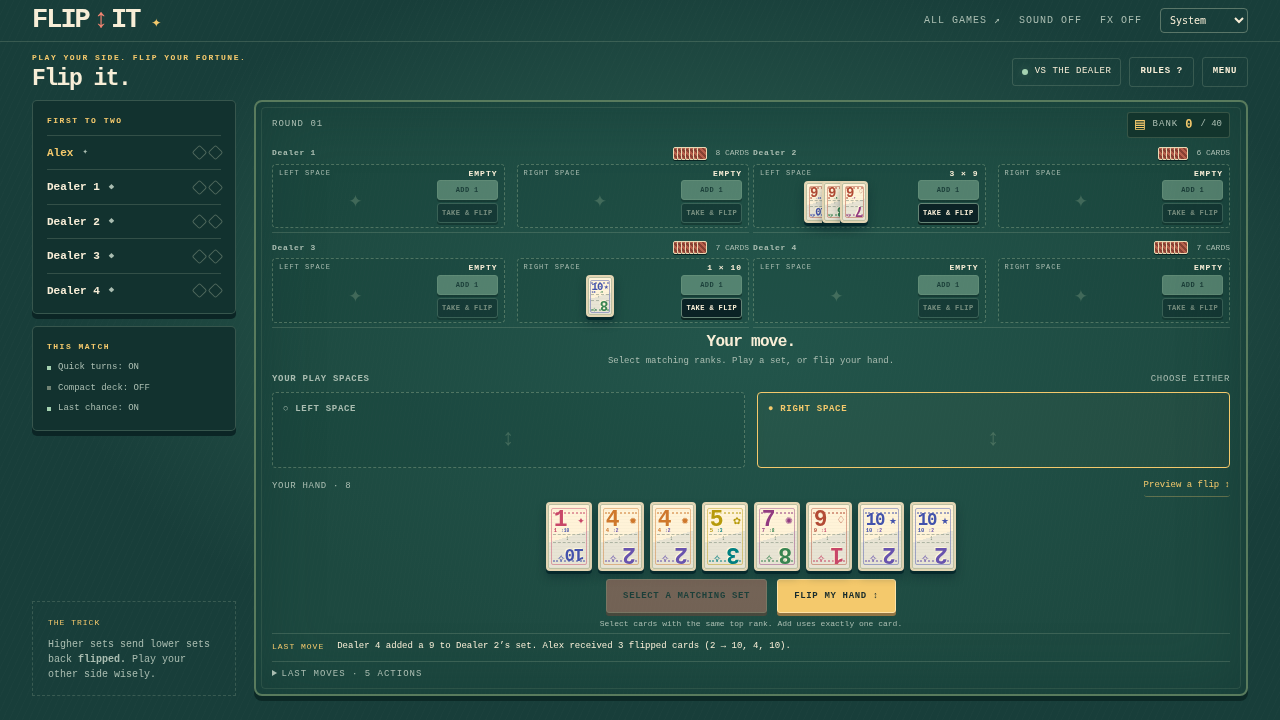
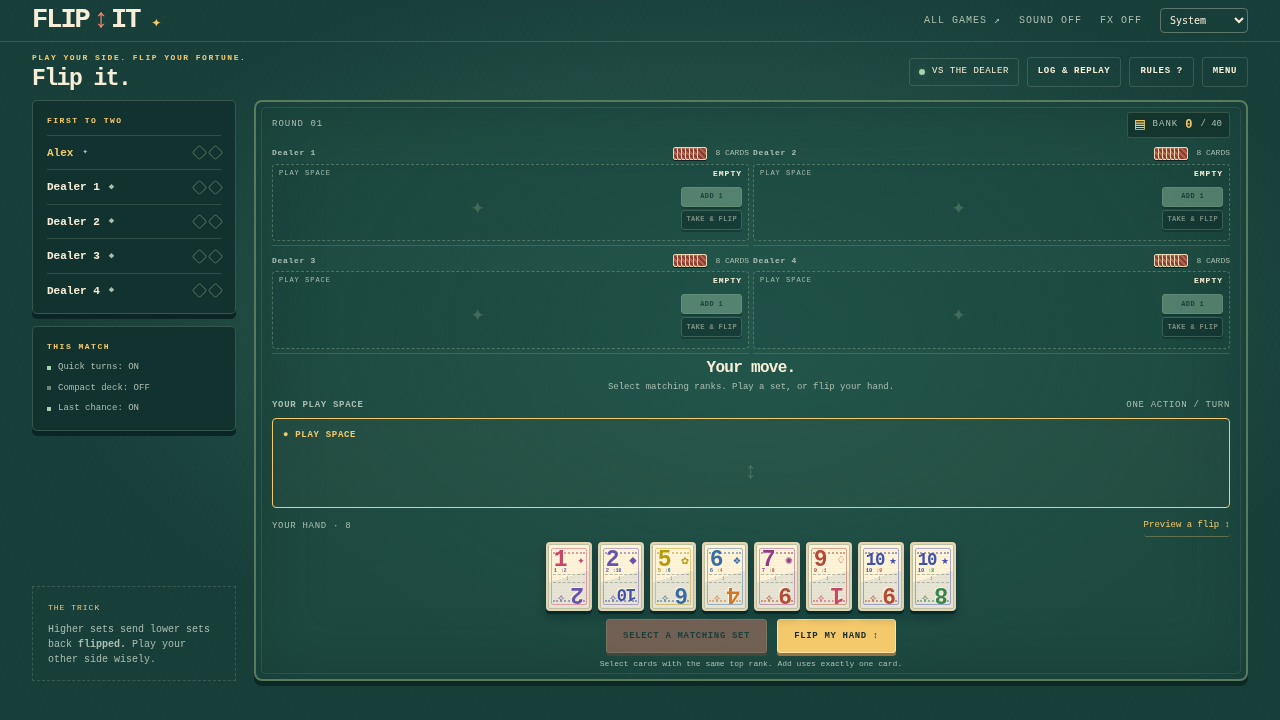
Verify shared reconnects and polish replay motion and responsive screenshots

diff --git a/flip-it/src/app.js b/flip-it/src/app.js
@@ -25,7 +25,7 @@ let scene = 'menu', mode = 'solo', game = null, seat = 0, lane = 1, chosen = [],
 let session = null, peer = null, linkStatus = 'idle', botTimer = null, generation = 0, lastViewKey = '';
 let pairKind = 'host', pairBusy = false, pairOut = '', pairError = '', pairMessage = '', pairingOpen = false, pairOffer = '';
 const replayStore=new ReplayStore();
-let replayOpen=false,replayRecord=null,replayIndex=0,replayTimer=null,replayOnlyHighlights=false,storageNotified=false;
+let replayOpen=false,replayRecord=null,replayIndex=0,replayTimer=null,replayOnlyHighlights=false,storageNotified=false,replayPosition=null;
 let chatDraft = '', animating = false, renderedPosition = null, animationGeneration = 0;
 let scanStream = null, scanTimer = null, scanGeneration = 0, canScan = false, toastTimer;
 const bus = typeof BroadcastChannel !== 'undefined' ? new BroadcastChannel('flip-it-pairing') : null;
@@ -148,12 +148,13 @@ document.addEventListener('submit', event => {
   catch(error) { notify(error.message); }
 });
 document.addEventListener('paste', event => {
-  if (event.target.id!=='pair-input' || !pairingOpen || pairKind!=='host' || pairBusy || peer?.connected) return;
+  if (event.target.id!=='pair-input' || !pairingOpen || !['host','join'].includes(pairKind) || pairBusy || peer?.connected) return;
   const input=event.clipboardData?.getData('text');
   if (!input) return;
-  // Pasting an intact reply finishes the host step; the explicit button remains
+  const host=pairKind==='host';
+  // An intact pasted link advances either seat automatically. Buttons remain
   // available for typed links and browsers without clipboard event data.
-  decodePairing(input,'answer').then(()=>acceptReply(input)).catch(error=>{pairError=error.message;renderPair();});
+  decodePairing(input,host?'answer':'offer').then(()=>host?acceptReply(input):joinInvitation(input)).catch(error=>{pairError=error.message;renderPair();});
 });
 function actionValid(actions, action) {
   return actions.some(a => a.kind === action.kind && a.lane === action.lane && a.target === action.target && (a.targetSeat ?? (view().hands.length===2?1-mySeat():-1)) === (action.targetSeat ?? (view().hands.length===2?1-mySeat():-1)) && (!a.cards || a.cards.length === action.cards?.length && a.cards.every(id => action.cards.includes(id))));
@@ -169,7 +170,7 @@ function renderTable(v) {
     html += '<div class="rival-zone"><div class="zone-title"><span>'+esc(ns[other])+(v.turn===other?' · TO PLAY':'')+'</span><span class="rival-hand" data-hand-seat="'+other+'"><span class="mini-fan" aria-hidden="true">'+Array.from({length:Math.min(v.hands[other].length,7)},()=>'<i class="mini-back"></i>').join('')+'</span>'+v.hands[other].length+' CARDS</span></div><div class="table-row ' + (v.options.quickTurns?'single-space':'') + '">';
     for(const target of (v.options.quickTurns?[0]:[0,1])) {
       const set=v.table[other][target],owner=v.hands.length===2?{}:{targetSeat:other},add={kind:'add',lane,target,cards:chosen,...owner},take={kind:'take',lane,target,...owner};
-      html += '<article data-space-seat="'+other+'" data-space-lane="'+target+'" class="play-space"><div class="space-header"><span>'+(target?'RIGHT':'LEFT')+' SPACE</span><strong>'+(set.length?set.length+' × '+setValue(set):'EMPTY')+'</strong></div><div class="space-cards">'+(set.length?set.map(c=>cardHtml(c)).join(''):'<span class="space-empty">✦</span>')+'</div><div class="space-controls">'+button('ADD 1','add','mint',!actionValid(actions,add)||preview,'data-target="'+target+'" data-owner="'+other+'"')+button('TAKE & FLIP','take','dark',!actionValid(actions,take)||preview,'data-target="'+target+'" data-owner="'+other+'"')+'</div></article>';
+      html += '<article data-space-seat="'+other+'" data-space-lane="'+target+'" class="play-space"><div class="space-header"><span>'+(v.options.quickTurns?'PLAY':target?'RIGHT':'LEFT')+' SPACE</span><strong>'+(set.length?set.length+' × '+setValue(set):'EMPTY')+'</strong></div><div class="space-cards">'+(set.length?set.map(c=>cardHtml(c)).join(''):'<span class="space-empty">✦</span>')+'</div><div class="space-controls">'+button('ADD 1','add','mint',!actionValid(actions,add)||preview,'data-target="'+target+'" data-owner="'+other+'"')+button('TAKE & FLIP','take','dark',!actionValid(actions,take)||preview,'data-target="'+target+'" data-owner="'+other+'"')+'</div></article>';
     }
     html += '</div></div>';
   }
@@ -187,7 +188,7 @@ function renderTable(v) {
     try {
       const impact = previewMove(v,p,play);
       hint = impact.event.returned.length ? impact.event.returned.map(r => (r.seat===p ? 'Your' : 'Their') + ' ' + r.count + ' cards return as ' + r.to.join(', ')).join('. ') + '.' : 'This set is legal. It stays exposed until you cash it out.';
-    } catch { hint = 'Blocked at this size. Try fewer cards, another space, or add one to their set.'; }
+    } catch { hint = 'Blocked at this size. Try fewer cards'+(v.options.quickTurns?'':', another space')+', or add one to their set.'; }
   }
   return html + '<p class="move-hint">' + esc(hint) + '</p>';
 }
@@ -196,10 +197,11 @@ function renderEnd(v) {
   const title = winner === null ? 'A little stalemate.' : esc(ns[winner]) + (match ? ' takes the match.' : ' takes the round.');
   const reason = r.reason === 'repeat' ? 'The same position came around three times. Drawn round: shuffle and try again.' : r.reason === 'limit' ? 'A long back-and-forth. Drawn round: a fresh deal keeps things moving.' : r.reason === 'survived' ? 'The last-chance reply couldn’t put cards back in their hand.' : 'An empty hand. A well-earned round.';
   const ready = mode === 'online' && session.ready[session.seat], guest = mode === 'online' && session.seat === 1;
-  return '<div class="ending pop"><div class="trophy" aria-hidden="true">✦</div><p class="eyebrow">' + (match ? 'GOOD COMPANY. GOOD GAME.' : 'A MOMENT TO CATCH YOUR BREATH.') + '</p><h2>' + title + '</h2><p>' + reason + '</p><div class="ending-score"><span>' + v.scores.join(' : ') + '</span></div>' + (match ? button(guest ? 'HOST CAN DEAL A REMATCH' : 'ONE MORE MATCH →', 'rematch', 'gold', guest || mode==='online' && !connected()) : button(ready ? 'WAITING FOR YOUR FRIEND…' : 'NEXT ROUND →', 'next', 'gold', ready || mode==='online' && !connected())) + button('CHANGE MATCH OPTIONS', 'menu', 'outline') + '</div>';
+  return '<div class="ending pop"><div class="trophy" aria-hidden="true">✦</div><p class="eyebrow">' + (match ? 'GOOD COMPANY. GOOD GAME.' : 'A MOMENT TO CATCH YOUR BREATH.') + '</p><h2>' + title + '</h2><p>' + reason + '</p><div class="ending-score"><span>' + v.scores.join(' : ') + '</span></div>' + (match ? button(guest ? 'HOST CAN DEAL A REMATCH' : 'ONE MORE MATCH →', 'rematch', 'gold', guest || mode==='online' && !connected()) : button(ready ? 'WAITING FOR YOUR FRIEND…' : 'NEXT ROUND →', 'next', 'gold', ready || mode==='online' && !connected())) + button('GAME HIGHLIGHTS ↗','game-highlights','outline') + button('CHANGE MATCH OPTIONS', 'menu', 'outline') + '</div>';
 }
 function eventText(e,ns=names()) {
-  if (!e || e.kind==='deal') return 'A fresh deal.';
+  if (!e) return 'Recording starts at this position.';
+  if (e.kind==='deal') return 'A fresh deal.';
   const who = esc(ns[e.seat]);
   let text = who + (e.kind==='flip' ? ' flipped their hand.' : e.kind==='take' ? ' took ' + e.count + ' cards and flipped them.' : e.kind==='add' ? ' added a ' + e.value + ' to '+esc(ns[e.targetSeat])+'’s set.' : ' played ' + e.count + ' × ' + e.value + '.');
   if (e.cashed) text += ' Cashed out ' + e.cashed + '.';
@@ -220,14 +222,15 @@ function beginReplayDialog(){
 }
 function showReplayLibrary(){
   pauseReplay();beginReplayDialog();
-  modalContent.innerHTML=modalHead('A few memorable flips.','SAVED ON THIS BROWSER')+'<p class="modal-copy">Your last eight games, with every recorded move and its highlights. Older games are removed as browser storage fills. Recordings include only the cards visible to this browser.</p><div class="replay-library">'+(replayStore.records.length?replayStore.records.map(r=>'<article><div><h3>'+r.names.map(esc).join(' / ')+'</h3><p>'+esc(new Date(r.updated).toLocaleString())+' · '+r.entries.filter(e=>e.event?.kind!=='deal').length+' actions · '+(r.entries.at(-1).view.phase==='matchOver'?'Finished':'In progress')+'</p></div><div>'+button('WATCH ↗','open-recording','gold compact',false,'data-recording="'+esc(r.id)+'"')+button('DELETE','delete-recording','outline compact',false,'data-recording="'+esc(r.id)+'"')+'</div></article>').join(''):'<p class="modal-copy">Play a game to start your collection.</p>')+'</div>';
+  modalContent.innerHTML=modalHead('A few memorable flips.','SAVED ON THIS BROWSER')+'<p class="modal-copy">Your last eight games, with every recorded move and its highlights. Older games are removed as browser storage fills. Recordings include only the cards visible to this browser.</p><div class="replay-library">'+(replayStore.records.length?replayStore.records.map(r=>'<article><div><h3>'+r.names.map(esc).join(' / ')+'</h3><p>'+esc(new Date(r.updated).toLocaleString())+' · '+r.entries.filter(e=>e.event&&e.event.kind!=='deal').length+' actions · '+(r.entries.at(-1).view.phase==='matchOver'?'Finished':'In progress')+'</p></div><div>'+button('WATCH ↗','open-recording','gold compact',false,'data-recording="'+esc(r.id)+'"')+button('DELETE','delete-recording','outline compact',false,'data-recording="'+esc(r.id)+'"')+'</div></article>').join(''):'<p class="modal-copy">Play a game to start your collection.</p>')+'</div>';
 }
 function openRecording(record){
   if(!record){notify('No moves have been recorded yet.');return;}
-  pauseReplay();replayRecord=record;replayIndex=record.entries.length-1;replayOnlyHighlights=false;beginReplayDialog();renderReplay();
+  pauseReplay();replayPosition=null;replayRecord=record;replayIndex=record.entries.length-1;replayOnlyHighlights=false;beginReplayDialog();renderReplay();
 }
 function eventVisual(e){
-  if(!e||e.kind==='deal')return '<span class="log-symbol">▥</span><span class="log-label">DEAL</span>';
+  if(!e)return '<span class="log-symbol">▣</span><span class="log-label">SNAPSHOT</span>';
+  if(e.kind==='deal')return '<span class="log-symbol">▥</span><span class="log-label">DEAL</span>';
   let html=e.kind==='flip'?'<span class="log-symbol">↕</span><span class="log-label">HAND FLIPPED</span>':e.kind==='take'?'<span class="log-rank">'+e.value+'</span><span class="log-arrow">× '+e.count+' → ↕</span>':'<span class="log-rank">'+e.value+'</span><span class="log-arrow">× '+e.count+(e.kind==='add'?' · +1':'')+'</span>';
   if(e.cashed)html+='<span class="log-bank">▤ +'+e.cashed+'</span>';
   for(const r of e.returned)html+='<span class="log-return"><span class="log-rank">'+r.from+'</span> × '+r.count+' ↩ <span class="log-flips">'+r.to.join(' · ')+'</span></span>';
@@ -235,27 +238,30 @@ function eventVisual(e){
 }
 function replayBoard(entry){
   const v=entry.view,ns=replayRecord.names;
-  let html='<div class="replay-board"><div class="table-meta"><span>ROUND '+(v.round+1)+' · ACTION '+v.moves+'</span><span>▤ BANK '+v.discardCount+'</span></div><div class="replay-seats">';
+  let html='<div class="replay-board"><div class="table-meta"><span>ROUND '+(v.round+1)+' · ACTION '+v.moves+'</span><span data-bank>▤ BANK '+v.discardCount+'</span></div><div class="replay-seats">';
   for(let i=0;i<v.hands.length;i++) {
-    html+='<section class="replay-seat"><div class="zone-title"><span>'+esc(ns[i])+'</span><span>'+v.hands[i].length+' IN HAND · '+v.scores[i]+' WINS</span></div><div class="table-row '+(v.options.quickTurns?'single-space':'')+'">';
-    for(const lane of(v.options.quickTurns?[0]:[0,1]))html+='<div class="play-space"><span class="eyebrow">'+(v.options.quickTurns?'PLAY SPACE':lane?'RIGHT':'LEFT')+'</span><div class="space-cards">'+(v.table[i][lane].map(c=>cardHtml(c)).join('')||'<span class="space-empty">✦</span>')+'</div></div>';
+    html+='<section class="replay-seat"><div class="zone-title"><span>'+esc(ns[i])+'</span><span data-hand-seat="'+i+'"><span class="mini-fan" aria-hidden="true">'+Array.from({length:Math.min(v.hands[i].length,5)},()=>'<i class="mini-back"></i>').join('')+'</span> '+v.hands[i].length+' IN HAND · '+v.scores[i]+' WINS</span></div><div class="table-row '+(v.options.quickTurns?'single-space':'')+'">';
+    for(const lane of(v.options.quickTurns?[0]:[0,1]))html+='<div class="play-space" data-space-seat="'+i+'" data-space-lane="'+lane+'"><span class="eyebrow">'+(v.options.quickTurns?'PLAY SPACE':lane?'RIGHT':'LEFT')+'</span><div class="space-cards">'+(v.table[i][lane].map(c=>cardHtml(c)).join('')||'<span class="space-empty">✦</span>')+'</div></div>';
     html+='</div></section>';
   }
   // During pass-and-play the replay shows the public table. Private hands stay
   // behind the handoff curtain, including in recordings opened from the menu.
-  if(replayRecord.mode!=='local')html+='</div><div class="replay-hand"><p class="eyebrow">'+esc(ns[entry.seat])+'’S RECORDED HAND</p><div class="hand">'+v.hands[entry.seat].map(c=>cardHtml(c)).join('')+'</div></div>';
+  if(replayRecord.mode!=='local')html+='</div><div class="replay-hand"><p class="eyebrow">'+esc(ns[entry.seat])+'’S RECORDED HAND</p><div class="hand" data-hand-seat="'+entry.seat+'">'+v.hands[entry.seat].map(c=>cardHtml(c)).join('')+'</div></div>';
   else html+='</div><p class="small">Pass & play recordings show the public table.</p>';
   if(v.result)html+='<p class="replay-result">'+(v.result.winner===null?'Drawn round':esc(ns[v.result.winner])+' won the '+(v.phase==='matchOver'?'match':'round'))+'.</p>';
   return html+'</div>';
 }
 function renderReplay(){
   if(!replayRecord)return;
+  const before=captureTable(modalContent);
   const r=replayRecord,entry=r.entries[replayIndex],marks=highlights(r),markMap=new Map(marks.map(m=>[m.index,m.label]));
   const items=r.entries.map((e,index)=>({entry:e,index})).filter(({index})=>!replayOnlyHighlights||markMap.has(index));
   const scroll=modal.querySelector('.action-timeline')?.scrollTop;
-  modalContent.innerHTML=modalHead('Every twist, remembered.','ACTION LOG / REPLAY')+'<div class="replay-controls">'+button('←','replay-step','outline compact',replayIndex===0,'data-step="-1" aria-label="Previous action"')+button(replayTimer?'PAUSE':'PLAY ▶','replay-play','gold compact')+button('→','replay-step','outline compact',replayIndex===r.entries.length-1,'data-step="1" aria-label="Next action"')+'<label class="replay-scrubber">'+(replayIndex+1)+' / '+r.entries.length+'<input id="replay-scrubber" type="range" min="0" max="'+(r.entries.length-1)+'" value="'+replayIndex+'" aria-label="Replay action"></label>'+button('SAVED GAMES','replay-library','outline compact')+'</div>'+(r.partial?'<p class="small">This recording started partway through the game or missed updates while this browser was away.</p>':'')+'<div class="replay-layout"><section><div class="replay-caption" aria-live="polite">'+eventVisual(entry.event)+'<p>'+eventText(entry.event,r.names)+'</p></div>'+replayBoard(entry)+'</section><aside class="replay-log"><div class="replay-log-head"><span>'+r.entries.filter(e=>e.event?.kind!=='deal').length+' ACTIONS</span>'+button(replayOnlyHighlights?'ALL ACTIONS':'HIGHLIGHTS · '+marks.length,'replay-filter','outline compact',false,'aria-pressed="'+replayOnlyHighlights+'"')+'</div><ol class="action-timeline" aria-label="Complete game action log">'+items.map(({entry:e,index})=>'<li><button type="button" data-action="replay-jump" data-index="'+index+'" class="log-entry '+(index===replayIndex?'current':'')+'" aria-current="'+(index===replayIndex?'step':'false')+'"><span class="log-meta">R'+(e.view.round+1)+' / '+(e.event?.kind==='deal'?'DEAL':'MOVE '+e.view.moves)+(markMap.has(index)?' · ★ '+esc(markMap.get(index)):'')+'</span><span class="log-visual">'+eventVisual(e.event)+'</span><span class="log-text">'+eventText(e.event,r.names)+'</span></button></li>').join('')+'</ol></aside></div>';
+  modalContent.innerHTML=modalHead('Every twist, remembered.','ACTION LOG / REPLAY')+'<div class="replay-controls">'+button('←','replay-step','outline compact',replayIndex===0,'data-step="-1" aria-label="Previous action"')+button(replayTimer?'PAUSE':'PLAY ▶','replay-play','gold compact')+button('→','replay-step','outline compact',replayIndex===r.entries.length-1,'data-step="1" aria-label="Next action"')+'<label class="replay-scrubber">'+(replayIndex+1)+' / '+r.entries.length+'<input id="replay-scrubber" type="range" min="0" max="'+(r.entries.length-1)+'" value="'+replayIndex+'" aria-label="Replay action"></label>'+button('SAVED GAMES','replay-library','outline compact')+'</div>'+(r.partial?'<p class="small">This recording started partway through the game or missed updates while this browser was away.</p>':'')+'<div class="replay-layout"><section><div class="replay-caption" aria-live="polite">'+eventVisual(entry.event)+'<p>'+eventText(entry.event,r.names)+'</p></div>'+replayBoard(entry)+'</section><aside class="replay-log"><div class="replay-log-head"><span>'+r.entries.filter(e=>e.event&&e.event.kind!=='deal').length+' ACTIONS</span>'+button(replayOnlyHighlights?'ALL ACTIONS':'HIGHLIGHTS · '+marks.length,'replay-filter','outline compact',false,'aria-pressed="'+replayOnlyHighlights+'"')+'</div><ol class="action-timeline" aria-label="Complete game action log">'+items.map(({entry:e,index})=>'<li><button type="button" data-action="replay-jump" data-index="'+index+'" class="log-entry '+(index===replayIndex?'current':'')+'" aria-current="'+(index===replayIndex?'step':'false')+'"><span class="log-meta">R'+(e.view.round+1)+' / '+(!e.event?'SNAPSHOT':e.event.kind==='deal'?'DEAL':'MOVE '+e.view.moves)+(markMap.has(index)?' · ★ '+esc(markMap.get(index)):'')+'</span><span class="log-visual">'+eventVisual(e.event)+'</span><span class="log-text">'+eventText(e.event,r.names)+'</span></button></li>').join('')+'</ol></aside></div>';
   modal.querySelector('#replay-scrubber').oninput=event=>{pauseReplay();replayIndex=Number(event.target.value);renderReplay();};
   if(scroll!==undefined)modal.querySelector('.action-timeline').scrollTop=scroll;
+  if(replayPosition?.id===r.id&&replayPosition.index+1===replayIndex&&replayPosition.round===entry.view.round&&replayPosition.seat===entry.seat&&replayPosition.revision+1===entry.view.revision&&entry.event?.kind!=='deal'&&entry.event&&motionEnabled())animateMove(modalContent,before,entry.event,entry.seat,entry.view);
+  replayPosition={id:r.id,index:replayIndex,round:entry.view.round,seat:entry.seat,revision:entry.view.revision};
 }
 function toggleReplay(){
   if(replayTimer){pauseReplay();renderReplay();return;}
@@ -321,6 +327,7 @@ function restoreTable() {
   session = new FlipSession({seat:saved.seat, name:saved.members[saved.seat], team:saved.team, options:saved.view.options, onUpdate:updateOnline, onError:networkError, onSocial:updateSocial});
   Object.assign(session, {members:saved.members, controllers:saved.controllers, state:saved.state, view:saved.view});
   mode='online'; scene='game'; linkStatus='closed'; resetSelection();
+  if(saved.migrated)notify('Quick turns now use one space. Cards from the retired space returned to their owners flipped.');
 }
 function updateOnline() {
   if (!session?.view) return render();
@@ -471,7 +478,7 @@ async function scanCode(target) {
 function showRules() {
   stopScan(); pairingOpen=false;
   const options=scene==='game' && view() ? view().options : prefs.options;
-  modalContent.innerHTML=modalHead('A little twist.','FLIP IT / HOW TO PLAY')+'<ol class="rules-list"><li>Empty your hand to win a round. <strong>First to two round wins</strong> takes the match. The deck is dealt evenly clockwise; with an uneven deal, the extra cards rotate each round.</li><li>Each card has two ranks. <strong>The top rank is active.</strong> The upside-down rank tells you what it becomes after a flip. Rearranging your hand is free; changing orientation is an action.</li><li>'+(options.quickTurns?'Take <strong>one action each</strong>, alternating. Choose either of your two play spaces.':'Take <strong>two actions</strong>: right space, then left. The opening player gets only the right action. Starting player alternates each round.')+' Before your action, <strong>cash out the set in that space</strong>: those cards leave play.</li><li><strong>Play:</strong> select one or more cards with the same active rank. Put them in your chosen space. Your rank must beat every other set of the same size. Lower sets return to their owners’ hands <strong>flipped</strong>—including your own other set.</li><li><strong>Add:</strong> put exactly one matching card into an opponent’s set. Its new size must beat every other set of that size; those lower sets return flipped.</li><li><strong>Take:</strong> pick up an opponent’s entire set into your hand, flipping each card. <strong>Flip:</strong> rotate every card in your hand. Each uses your whole action.</li><li>'+(options.lastChance?'With <strong>Last chance ON</strong>, an empty hand gives each other player exactly one response, overriding the normal turn order. If your hand stays empty, you win. If multiple hands are empty, the first finisher has priority. A successful counter can give the responder their own last-chance window.':'With <strong>Last chance OFF</strong>, emptying your hand wins immediately.')+'</li><li>Three appearances of the same position draw the round. A round also draws after '+(options.compactDeck?'120':'180')+' actions. Nobody scores; redeal with the other player starting.</li></ol><p class="rule-example"><strong>A little example:</strong> their pair of 3s is exposed. Play two 5s to send the 3s back flipped. Or add one 3 to their pair: it becomes a triple, and might bounce another lower triple—even yours.</p>'+optionBadges(options)+button('GOT IT. LET’S PLAY →','close-modal','gold');
+  modalContent.innerHTML=modalHead('A little twist.','FLIP IT / HOW TO PLAY')+'<ol class="rules-list"><li>Empty your hand to win a round. <strong>First to two round wins</strong> takes the match. The deck is dealt evenly clockwise; with an uneven deal, the extra cards rotate each round.</li><li>Each card has two ranks. <strong>The top rank is active.</strong> The upside-down rank tells you what it becomes after a flip. Rearranging your hand is free; changing orientation is an action.</li><li>'+(options.quickTurns?'Take <strong>one action each</strong>, alternating. Use your single play space.':'Take <strong>two actions</strong>: right space, then left. The opening player gets only the right action. Starting player alternates each round.')+' Before your action, <strong>cash out the set in that space</strong>: those cards leave play.</li><li><strong>Play:</strong> select one or more cards with the same active rank. Put them in your chosen space. Your rank must beat every other set of the same size. Lower sets return to their owners’ hands <strong>flipped</strong>—including your own other set.</li><li><strong>Add:</strong> put exactly one matching card into an opponent’s set. Its new size must beat every other set of that size; those lower sets return flipped.</li><li><strong>Take:</strong> pick up an opponent’s entire set into your hand, flipping each card. <strong>Flip:</strong> rotate every card in your hand. Each uses your whole action.</li><li>'+(options.lastChance?'With <strong>Last chance ON</strong>, an empty hand gives each other player exactly one response, overriding the normal turn order. If your hand stays empty, you win. If multiple hands are empty, the first finisher has priority. A successful counter can give the responder their own last-chance window.':'With <strong>Last chance OFF</strong>, emptying your hand wins immediately.')+'</li><li>Three appearances of the same position draw the round. A round also draws after '+(options.compactDeck?'120':'180')+' actions. Nobody scores; redeal with the other player starting.</li></ol><p class="rule-example"><strong>A little example:</strong> their pair of 3s is exposed. Play two 5s to send the 3s back flipped. Or add one 3 to their pair: it becomes a triple, and might bounce another lower triple—even yours.</p>'+optionBadges(options)+button('GOT IT. LET’S PLAY →','close-modal','gold');
   if (!modal.open) modal.showModal();
 }
 document.addEventListener('click',async event=>{
@@ -500,6 +507,7 @@ document.addEventListener('click',async event=>{
     else if (action==='clear') { chosen=[]; render(); }
     else if (action==='preview') { preview=!preview; chosen=[]; render(); }
     else if (action==='uncover') { handoff=false; render(); }
+    else if (action==='game-highlights') {openRecording(currentRecording());replayOnlyHighlights=true;renderReplay();}
     else if (action==='game-log') openRecording(currentRecording());
     else if (action==='replay-library') showReplayLibrary();
     else if (action==='open-recording') openRecording(replayStore.records.find(r=>r.id===target.dataset.recording));
@@ -608,7 +616,7 @@ async function handleHash() {
   }
 }
 window.addEventListener('hashchange',handleHash);
-window.addEventListener('pagehide',()=>{stopAI();stopScan();clearTimeout(botTimer);peer?.close();bus?.close();});
+window.addEventListener('pagehide',()=>{pauseReplay();stopAI();stopScan();clearTimeout(botTimer);peer?.close();bus?.close();});
 if (typeof BarcodeDetector!=='undefined' && navigator.mediaDevices?.getUserMedia) BarcodeDetector.getSupportedFormats().then(formats=>{canScan=formats.includes('qr_code');if(pairingOpen)renderPair();}).catch(()=>{});
 restoreTable();applySettings();render();handleHash();
 // Read-only, redacted diagnostics for browser playtests. No action or private

diff --git a/flip-it/style.css b/flip-it/style.css
@@ -45,3 +45,5 @@ html[data-game=flip-it][data-color-theme=light]{color-scheme:light;--paper:#233d
 
 .table-row.single-space{grid-template-columns:1fr}.single-space .space-cards{min-height:56px}
 .replay-library-link{margin-top:16px;text-align:center}.move-banner>.button{margin-left:auto;flex-shrink:0}.replay-dialog{width:min(1080px,calc(100vw - 32px));max-width:1080px;padding:24px;max-height:calc(100dvh - 24px)}.replay-controls{display:flex;align-items:center;gap:8px;margin:16px 0}.replay-scrubber{display:flex;flex:1;align-items:center;gap:12px;font-size:11px;font-weight:800;white-space:nowrap}.replay-scrubber input{width:100%;accent-color:var(--gold)}.replay-layout{display:grid;grid-template-columns:minmax(0,1fr) 310px;gap:20px}.replay-board{background:var(--felt);border:2px solid var(--ink);border-radius:12px;padding:14px;color:var(--paper)}.replay-seats{display:grid;gap:12px}.replay-seat .zone-title{margin:10px 0}.replay-seat .space-cards{min-height:46px}.replay-seat .flip-card{--card-w:40px;width:40px;height:60px}.replay-hand{margin-top:20px}.replay-hand .hand{flex-wrap:wrap;gap:5px}.replay-hand .flip-card{--card-w:38px;width:38px;height:57px}.replay-caption{display:flex;gap:8px;flex-wrap:wrap;align-items:center;margin-bottom:16px}.replay-caption p{width:100%;margin:2px 0;font-size:13px;line-height:1.6}.replay-log-head{display:flex;justify-content:space-between;align-items:center;gap:6px;font-size:10px;font-weight:800;margin-bottom:8px}.action-timeline{list-style:none;padding:0;margin:0;max-height:450px;overflow:auto;overscroll-behavior:contain;border:1px solid var(--line);border-radius:8px}.log-entry{display:block;width:100%;border:0;border-bottom:1px solid var(--line);background:transparent;color:var(--paper);text-align:left;padding:12px;cursor:pointer}.log-entry.current{background:var(--panel);box-shadow:inset 4px 0 var(--gold)}.log-entry:hover{background:var(--panel)}.log-meta{display:block;font-size:9px;font-weight:800;letter-spacing:.6px;margin-bottom:8px}.log-visual{display:flex;align-items:center;flex-wrap:wrap;gap:6px;margin:6px 0}.log-rank{display:inline-flex;align-items:center;justify-content:center;width:27px;height:34px;border:2px solid var(--ink);border-radius:5px;background:var(--paper);color:var(--ink);box-shadow:2px 2px 0 var(--ink);font:bold 23px Georgia,serif}.log-arrow,.log-label,.log-bank,.log-flips{font-size:11px;font-weight:800}.log-symbol{font-size:26px}.log-bank{padding:6px;border:1px dashed var(--ink);border-radius:4px}.log-return{display:flex;gap:5px;align-items:center;font-size:11px}.log-text{display:block;font-size:12px;line-height:1.6}.replay-result{font-weight:800}.replay-library article{display:flex;justify-content:space-between;gap:20px;padding:18px 0;border-bottom:1px solid var(--line)}.replay-library article h3{font:22px Georgia,serif;margin:0}.replay-library article p{font-size:12px}.replay-library article>div:last-child{display:flex;gap:8px}@media(max-width:760px){.replay-dialog{padding:16px}.replay-layout{grid-template-columns:1fr}.replay-controls{flex-wrap:wrap}.replay-scrubber{flex-basis:100%;order:2}.action-timeline{max-height:280px}.move-banner>.button{font-size:9px;padding:6px}.replay-library article{flex-wrap:wrap}}@media(max-height:760px) and (min-width:761px){.replay-dialog .modal-head h2{font-size:28px}.action-timeline{max-height:410px}.replay-seats{grid-template-columns:repeat(2,minmax(0,1fr))}.replay-seat .zone-title{font-size:8px}.replay-caption{margin-bottom:8px}}
+
+.pair-output-grid{display:grid;grid-template-columns:minmax(0,1fr) 170px;align-items:center;gap:18px;margin:14px 0}.pair-output-grid .qr-wrap{margin:0}.pair-output-grid textarea{height:110px;min-height:80px}.pair-output-grid .label,.pair-output-grid .field-label{margin-top:0}@media(max-width:540px){.pair-output-grid{grid-template-columns:1fr}.pair-output-grid .qr-wrap{width:170px;justify-self:center}}

diff --git a/cluance/src/app.js b/cluance/src/app.js
@@ -438,6 +438,7 @@ async function openPairHash(){
     else{const link=makeLink(reply,'answer');pairingBus?.postMessage({type:'reply',link});showModal('Back to your table.','Reply ready','<p class="pair-copy">Return to your original hosting tab. The reply was sent there. If it is on another browser, paste this link in that tab.</p><textarea id="return-reply" class="code-box" readonly>'+esc(link)+'</textarea>');}
   }catch(error){toast(error.message);}
 }
+window.addEventListener('hashchange',openPairHash);
 function showRules(){
   showModal('A little trust goes a long way.','How to play',`<p class="pair-copy">You’re a team. Keep one secret card on the table through five rounds.</p><ol class="rules-list"><li><strong>The clue giver sees the secret.</strong> There are 12 cards on the board and five private cards in the giver’s hand.</li><li><strong>Play one illustrated clue.</strong> Choose Similar ↑ for a shared trait, or Different → for a contrast. It can be a job, an era, a date, geography, a story, a trait, or a visual detail. Inspect cards for their dates and biographies. Only the card and its direction are shared.</li><li><strong>The guesser removes cards.</strong> Remove 1, then 2, then 3, then 4, then 1. All previous clues remain relevant.</li><li><strong>Leave the secret standing.</strong> Removing it ends the game immediately. If it’s the last card left, you both win.</li><li><strong>Open your sealed interpretations.</strong> Optional human notes and AI explanations are recorded with each move, then revealed together at the end.</li></ol><div class="rules-rounds"><span>1</span><span>2</span><span>3</span><span>4</span><span>1</span></div><p class="help-text"><strong>Classic:</strong> draw a new card after each clue.<br><strong>Fixed five:</strong> start with five cards and never draw replacements. Choose the order carefully.<br><strong>Mixed decks:</strong> use one theme for cards and another for clues.</p><p class="help-text">This is an independent game inspired by Similo, designed by Hjalmar Hach, Pierluca Zizzi and Martino Chiacchiera. The illustrations here are original generated artwork; they are not the commercial card art.</p>`);
 }
@@ -554,3 +555,9 @@ try{
 }catch(error){app.innerHTML=`<p class="inline-error">${esc(error.message)}</p><button class="button" id="reload">Reload artwork</button>`;$('reload').onclick=()=>location.reload();}
 
 window.addEventListener('storage',event=>{if(event.key===CONFIG_KEY){Object.assign(settings,loadAI());if(!aiBusy&&screen==='home')renderHome();}if(event.key===THEME_KEY){settings.appearance=loadTheme();applyPreferences();}});
+
+// Redacted, read-only diagnostics for browser verification.
+Object.defineProperty(window,'__cluance',{value:{
+  get state(){return game?structuredClone(currentView()):null;},
+  get connected(){return Boolean(peer?.connected);},get mode(){return mode;}
+}});

diff --git a/shared/pairing.js b/shared/pairing.js
@@ -8,7 +8,7 @@ export function pairingBody({host, output='', busy=false, error='', message='', 
   const settings=connectionSettings(stun), kind=host?'INVITE':'REPLY';
   let html=`<div class="pair-steps"><div class="pair-step ${!output?'active':''}">01<br>HOST SHARES AN INVITE</div><div class="pair-step ${output?'active':''}">02<br>GUEST SHARES A REPLY</div><div class="pair-step">03<br>HOST ACCEPTS. PLAY.</div></div>`;
   if(output) {
-    html+=`<p class="modal-copy pair-copy">${host?'Send this invitation to your friend, or let them scan the QR code.':'Send this reply to the host. They can open it beside their hosting tab or paste it.'} Keep this tab open.</p><label class="field-label label" for="pair-output">YOUR ${kind} LINK</label><textarea id="pair-output" class="link-output code-box" readonly spellcheck="false">${esc(output)}</textarea><div class="button-row">${button('COPY '+kind+' ↗','copy',false,'gold')}${button('SHARE','share',false,'dark')}</div><div class="qr-wrap"><canvas id="pair-qr" aria-label="Scan this ${kind.toLowerCase()} QR code"></canvas></div>`;
+    html+=`<p class="modal-copy pair-copy">${host?'Send this invitation to your friend, or let them scan the QR code.':'Send this reply to the host. They can open it beside their hosting tab or paste it.'} Keep this tab open.</p><div class="pair-output-grid"><div><label class="field-label label" for="pair-output">YOUR ${kind} LINK</label><textarea id="pair-output" class="link-output code-box" readonly spellcheck="false">${esc(output)}</textarea><div class="button-row">${button('COPY '+kind+' ↗','copy',false,'gold')}${button('SHARE','share',false,'dark')}</div></div><div class="qr-wrap"><canvas id="pair-qr" aria-label="Scan this ${kind.toLowerCase()} QR code"></canvas></div></div>`;
     if(host) html+=`<label class="field-label label" for="pair-input">PASTE YOUR FRIEND’S REPLY LINK</label><textarea id="pair-input" class="code-box" placeholder="Their reply link goes here…" spellcheck="false">${esc(initial)}</textarea>${button(busy?'CONNECTING…':'ACCEPT REPLY →','accept-reply',busy)}${canScan?button('SCAN REPLY QR','scan-reply',busy):''}`;
     else html+='<p class="help-text qr-note">Waiting for the host to accept. Keep this tab open.</p>';
     html+=settings+button(host?'MAKE A FRESH INVITE':'REMAKE REPLY',host?'create-invite':'remake-reply',busy);

diff --git a/cluance/style.css b/cluance/style.css
@@ -135,4 +135,6 @@ input[type=range]{accent-color:var(--gold);padding:5px 0;background:transparent;
 
 @media(max-width:380px){.topbar{gap:8px}.wordmark{font-size:16px;letter-spacing:1px;gap:7px}.wordmark small{font-size:8px;letter-spacing:2px}.top-actions{gap:5px}.quiet-button{font-size:9px;padding:8px 2px}}
 /* Shared invitation controls keep the same three-step flow in every game. */
-.pair-step{flex:1;padding:10px;font-size:10px;line-height:1.6;border:1px solid var(--line);border-radius:6px}.pair-step.active{color:var(--accent);background:var(--panel)}.connection-settings{margin:20px 0}.connection-settings summary{cursor:pointer;font-weight:700}.connection-settings input{display:block;width:100%;margin:6px 0 14px}.connection-settings label{display:block;margin-top:14px}.button-row{display:flex;gap:10px;margin:12px 0}.qr-wrap{text-align:center;margin:18px 0}.qr-wrap canvas{max-width:220px;width:100%;height:auto;border-radius:6px}.connection-settings~.button{margin-top:8px}
+.pair-step{flex:1;padding:10px;font-size:10px;line-height:1.6;border:1px solid var(--line);border-radius:6px}.pair-step.active{color:var(--gold);background:var(--panel)}.connection-settings{margin:20px 0}.connection-settings summary{cursor:pointer;font-weight:700}.connection-settings input{display:block;width:100%;margin:6px 0 14px}.connection-settings label{display:block;margin-top:14px}.button-row{display:flex;gap:10px;margin:12px 0}.qr-wrap{text-align:center;margin:18px 0}.qr-wrap canvas{max-width:220px;width:100%;height:auto;border-radius:6px}.connection-settings~.button{margin-top:8px}
+
+.pair-output-grid{display:grid;grid-template-columns:minmax(0,1fr) 170px;align-items:center;gap:18px;margin:14px 0}.pair-output-grid .qr-wrap{margin:0}.pair-output-grid textarea{height:110px;min-height:80px}.pair-output-grid .label,.pair-output-grid .field-label{margin-top:0}@media(max-width:540px){.pair-output-grid{grid-template-columns:1fr}.pair-output-grid .qr-wrap{width:170px;justify-self:center}}

diff --git a/flip-it/src/session.js b/flip-it/src/session.js
@@ -9,7 +9,7 @@ export function validateSocial(message) {
       message.kind === 'reaction' && !REACTIONS.includes(message.text)) throw new Error('Invalid chat message.');
   return message;
 }
-export function validateView(view, visibleSeat) {
+export function validateView(view, visibleSeat, {legacySpaces=false} = {}) {
   const seats = view?.hands?.length, players = Array.from({length:Number.isInteger(seats)?seats:0},(_,i)=>i);
   if (!view || !Number.isInteger(seats) || seats < 2 || seats > 5 || !players.includes(visibleSeat)) throw new Error('Invalid game update.');
   const options = optionsFor(view.options), deck = makeDeck(options.compactDeck);
@@ -19,6 +19,8 @@ export function validateView(view, visibleSeat) {
       !Array.isArray(view.scores) || view.scores.length !== seats || view.scores.some(n => !integer(n, 2)) ||
       !Array.isArray(view.hands) || view.hands.length !== seats || view.hands.some(h => !Array.isArray(h) || h.length > deck.length) ||
       !Array.isArray(view.table) || view.table.length !== seats || view.table.some(row => !Array.isArray(row) || row.length !== 2 || row.some(s => !Array.isArray(s) || s.length > 8))) throw new Error('Invalid game update.');
+  if (view.id !== undefined && (typeof view.id !== 'string' || !/^[a-f0-9]{32}$/.test(view.id)) ||
+      !legacySpaces && options.quickTurns && view.table.some(row=>row[1].length)) throw new Error('Invalid play spaces.');
   if (!integer(view.repliesRemaining, seats-1) || (view.pending === null) !== (view.repliesRemaining === 0)) throw new Error('Invalid reply window.');
   const seen = new Set(), sizes = new Set();
   function checkCard(card) {

diff --git a/flip-it/src/resume.js b/flip-it/src/resume.js
@@ -26,7 +26,7 @@ export function loadTable(storage) {
         !Array.isArray(saved.controllers) || saved.controllers.length < 2 || saved.controllers.length > 5 ||
         saved.controllers.some((t, i) => i < (saved.team ? 1 : 2) ? t !== 'human' : !['model', 'dealer'].includes(t))) return null;
     const visibleSeat = saved.team ? 0 : saved.seat;
-    validateView(saved.view, visibleSeat);
+    validateView(saved.view, visibleSeat, {legacySpaces:saved.version===2});
     if (saved.controllers.length !== saved.view.hands.length) return null;
     if (saved.seat === 0) {
       assertState(saved.state); optionsFor(saved.state.options);
@@ -44,7 +44,12 @@ export function loadTable(storage) {
           row[1] = [];
         });
       }
+      for (const state of [saved.view,saved.state].filter(Boolean)) {
+        state.log=[];
+        if(state.pending!==null&&state.hands[state.pending].length){state.pending=null;state.repliesRemaining=0;}
+      }
       if (saved.state) saved.state.visits = {};
+      validateView(saved.view,visibleSeat);
       saved.migrated = true;
     }
     return saved;

diff --git a/flip-it/src/effects.js b/flip-it/src/effects.js
@@ -34,7 +34,7 @@ export async function animateMove(root, before, event, ownSeat, view) {
     node.removeAttribute('data-action'); node.removeAttribute('data-visual-card'); node.removeAttribute('data-card');
     node.classList.remove('selected'); node.disabled=true; node.setAttribute('aria-hidden','true'); node.classList.add('flying-card');
     Object.assign(node.style,{position:'fixed',left:start.x+'px',top:start.y+'px',width:start.width+'px',height:start.height+'px','--card-w':start.width+'px',margin:'0',zIndex:'100',pointerEvents:'none'});
-    document.body.append(node);
+    (root.closest('dialog') || document.body).append(node);
     const dx=target.x+(target.width-start.width)/2-start.x, dy=target.y+(target.height-start.height)/2-start.y;
     const delay=Math.min(index,10)*28, duration=650;
     const finishScale=bank ? .28 : next?.rect ? target.width/start.width : .48;

diff --git a/flip-it/src/rules.js b/flip-it/src/rules.js
@@ -191,7 +191,7 @@ export function legalActions(state, seat = state.turn) {
     for (let targetSeat = 0; targetSeat < state.hands.length; targetSeat++) {
       if (targetSeat === seat) continue;
       const owner = state.hands.length === 2 ? {} : {targetSeat};
-      for (let target = 0; target < 2; target++) {
+      for (const target of (state.options.quickTurns ? [0] : [0,1])) {
         const set = base.table[targetSeat][target]; if (!set.length) continue;
         actions.push({kind:'take',lane,target,...owner});
         const rank = setValue(set);

diff --git a/cluance/README.md b/cluance/README.md
@@ -16,11 +16,11 @@ Open <http://127.0.0.1:4173>. Optionally set `PORT` to use another port. The pre
 
 Publish `cluance/` together with the repository's `shared/` directory. The Pages workflow assembles both alongside the other games when changes reach `main`. The game URL is `https://nathsou.github.io/games/cluance/`; relative imports also support another static host with the same directory layout. The local preview server serves the shared files automatically.
 
-There is no hosted room registry. AI mode makes browser requests directly to the user's selected provider. Multiplayer uses browser-to-browser WebRTC and, by default, a public STUN service for route discovery. No TURN relay is configured, so some restrictive networks cannot connect; the STUN server can be changed or disabled in Settings.
+There is no hosted room registry. AI mode makes browser requests directly to the user's selected provider. Multiplayer uses browser-to-browser WebRTC and, by default, a public STUN service for route discovery. No TURN service is provided; optional relay credentials and STUN addresses can be supplied in the shared invitation controls.
 
 ## Play
 
-- **Play with a friend:** the creator is the clue giver. Create and send an invitation link. The friend opens it, creates a reply code, and sends it back. The creator pastes the reply; both browsers open the shared table. Keep both tabs open. This exchange contains connection metadata, not the secret, hand, notes, or API keys.
+- **Play with a friend:** the creator is the clue giver. Create and send an invitation link. The friend opens it, receives a reply link automatically, and sends it back. The creator pastes the reply; both browsers open the shared table. Keep both tabs open. This exchange contains connection metadata, not the secret, hand, notes, or API keys.
 - **Guess the AI's card:** the AI knows the secret and chooses one clue card and its direction each round.
 - **Give clues to AI:** you know the secret and play clues; the AI chooses cards to eliminate.
 - **Play on one screen:** pass the device between roles using a privacy curtain. No provider key is required.
@@ -88,7 +88,7 @@ These are cooperative games between trusted players. A local browser that runs a
 - `src/context.js`: shared dates and descriptions for all card subjects.
 - `src/art.js`: Canvas card rendering, atlas loading, AI observation images and animated felt.
 - `src/app.js`: accessible native controls, game flow, pairing, local saving, replay and settings.
-- `src/peer.js`: compressed invitation/reply tokens and reliable ordered WebRTC messages.
+- `src/peer.js`: Cluance configuration for the shared invitation tokens and WebRTC transport.
 - `src/ai.js`: image requests and provider-specific authentication, models and reasoning controls.
 - `src/storage.js`, `src/sound.js`: local persistence, audio controls and synthesized arcade sounds.
 - `src/usage.js`: local request ledger, provider usage normalization, captured pricing and spending summaries.

diff --git a/flip-it/PLAYTEST.md b/flip-it/PLAYTEST.md
@@ -75,3 +75,12 @@ Focused browser checks exercised visible Play, Take, bank deposits, returned/fli
 The active table fits without page scrolling at **1280 × 720**, **1366 × 768** and **1440 × 900**, including a five-seat full-deck table at 1280 × 720. Light and dark appearances were checked, including light-theme body ink. A DOM-only 40-card hand stress check stayed inside widths 768, 1280 and 1440. Widths **320, 390, 768, 1280, 1366 and 1440** had no horizontal page overflow. Phones retain vertical scrolling, with cards wrapping and the chat below the table. Last chance replaces the normal turn prompt to preserve the compact table height.
 
 Fresh screenshots of the lobby, solo table, multiplayer chat, five-player layout, phone layout, card motion, live reactions and light appearance are in [screenshots](screenshots/). The PR description embeds these images from the branch. Browser automation tools and the loopback test relay were kept outside the shipped game. Physical MacBook hardware, Safari, Firefox, phone cameras and external NAT/relay connectivity were not available for this verification.
+
+## Single-space quick turns, browser replay and shared invites (2026-10-03)
+
+- Quick turns now have one visible and legal space per player. Double-turn rules still use right then left. Legacy saved second piles return flipped with card conservation and hidden guest hands covered by regression tests.
+- Seven Flip it test files pass, including shared codecs, cross-game token rejection, room-bound replies, multi-round replay retention, private-view persistence and denied storage. Existing Spacegolf and shared AI tests pass.
+- Chromium at 1280 × 720: played complete solo matches, checked every recorded action against revision counts across rounds, scrubbed and played replay, filtered highlights, reloaded the library, verified replay does not change the live game, and checked 390-pixel phone layout. Replay flights render inside the native dialog.
+- Real WebRTC via a temporary loopback TURN/TCP relay: both Flip it peers retain the same game ID, revision and recording after host reload/reconnect. Guest recording frames contain anonymous opponent hands. No test relay configuration or credentials are shipped.
+- Cluance: automatic invite and reply generation, paste-to-accept, invitation navigation within an already-open tab, relay configuration, saved-host reconnect after round one, then all five rounds to a shared win. No page errors.
+- Fresh screenshots: 09 quick turns, 10 Cluance invite, 11 replay/log, 12 highlights, 13 phone replay, 14 Cluance win, 15 Flip it invite, 16 replay motion.
